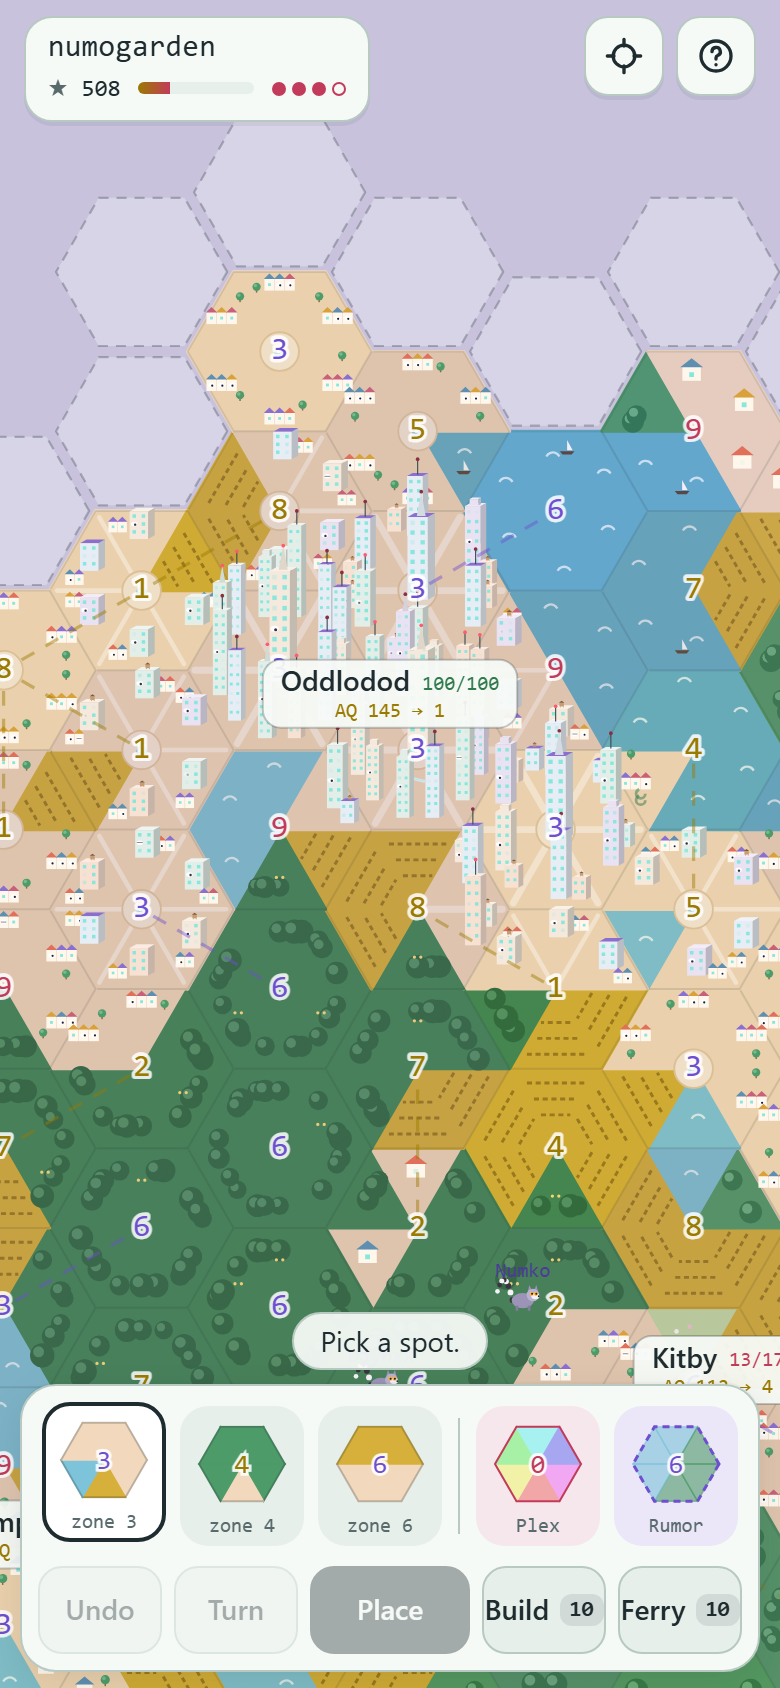
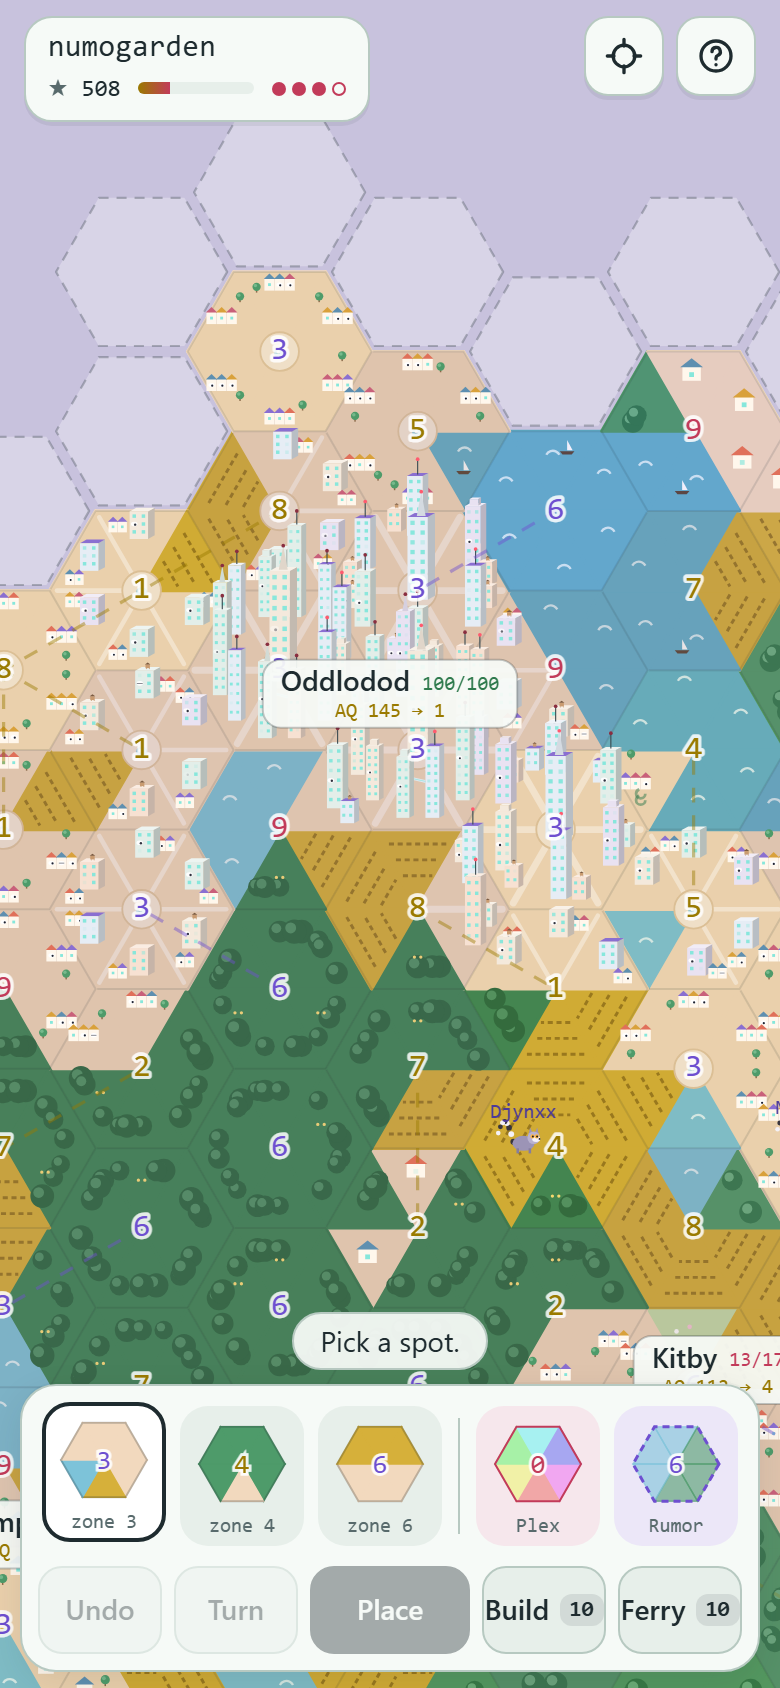
Lemurs, step 1: lemurs stand on real tiles and walk toward rumors and door dreams
Claude-Session: https://claude.ai/code/session_01Kme6PSoEQ3nadxpig1sZ6J

diff --git a/artifact/numogarden.html b/artifact/numogarden.html
@@ -285,6 +285,9 @@ const CFG = {
   LOOP_DREAMS: true,    //   a data centre touching a closed loop's area dreams every DREAM_EVERY / 2 placements       //   no chronicle line for a loop whose tiles were on a closed loop of its current this recently
   HOLD_EYE_LOOPS: true, // a Hold current holds no tile at either end of any Hold current, so Hold loops can break
                         //   (false = only its own pair, which replays the rules before it; specs/loops.md)
+  LEMURS_WALK: true,    // lemurs stand on real tiles and step one hex a placement toward the nearest rumor or door dream
+  LEMUR_REACH: 4,       //   within this many hexes, and otherwise wander within LEMUR_HOME of where they arrived. Their
+  LEMUR_HOME: 2,        //   steps come from their own seed, never state.rng (false = they stay where they arrived)
   RUMOR_LIFE: 15, RUMOR_NEED: 3,
   HAND_MAX: 4, LEMUR_MAX: 10, METER_MAX: 15,
   TIERS: { H: [1, 6, 12, 24, 40], S: [1, 10, 20, 35], J: [1, 12, 30], F: [1, 10, 25], D: [1] },
@@ -470,7 +473,7 @@ function pushEvent(state, ev, kind, txt, extra) {
 function spawnLemur(state, d, k, ev, why, door) {
   if (state.level < 1) return;
   const [a, b, name] = DEMONS[d];
-  const l = { d, k, born: state.turn, s: rint(state.rng, 1e9) };
+  const l = { d, k, at: k, born: state.turn, s: rint(state.rng, 1e9) };
   if (why === 'door') l.door = door;
   state.lemurs.push(l);
   if (state.lemurs.length > CFG.LEMUR_MAX) state.lemurs.shift();
@@ -614,6 +617,7 @@ function step(state, ev) {
   updateLoops(state, ev);
   rules(state, C, ev);
   doors(state, ev);
+  walkLemurs(state);
   rumors(state, ev);
   levelUp(state, ev);
   nightDeck(state, ev);
@@ -1328,6 +1332,39 @@ function believers(state, t) {
   return { ok, need: t.door ? CFG.DOOR_NEED : CFG.RUMOR_NEED };
 }
 
+/* lemurs walk (specs/lemurs.md): each placement a lemur steps one hex over real land toward the nearest rumor or door
+   dream within LEMUR_REACH, stopping beside it, and otherwise wanders within LEMUR_HOME of where it arrived on half the
+   placements. Its choices come from a hash of its own seed and the placement, so walking draws nothing from state.rng. */
+function lemurHash(l, turn) {
+  let h = (l.s ^ Math.imul(turn + 1, 0x9E3779B1)) >>> 0;
+  h = Math.imul(h ^ (h >>> 16), 0x85EBCA6B) >>> 0; h = Math.imul(h ^ (h >>> 13), 0xC2B2AE35) >>> 0;
+  return (h ^ (h >>> 16)) >>> 0;
+}
+const believes = t => t.kind === 'r' && (!!t.door || !t.dream); // the ghosts lemurs care about: rumors and door dreams
+function walkLemurs(state) {
+  if (!CFG.LEMURS_WALK || !state.lemurs.length) return;
+  const ghosts = [];
+  for (const k in state.map) if (believes(state.map[k])) ghosts.push(state.map[k]);
+  const real = (q, r) => { const t = state.map[key(q, r)]; return t && t.kind !== 'r' ? t : null; };
+  for (const l of state.lemurs) {
+    if (!l.at) l.at = l.k; // a world saved before lemurs walked
+    const cur = state.map[l.at]; if (!cur) continue; // its tile was cleared: it waits for land
+    let goal = null, gd = CFG.LEMUR_REACH + 1;
+    for (const g of ghosts) { const d = hexDist(cur.q, cur.r, g.q, g.r); if (d < gd || (d === gd && goal && g.id < goal.id)) { goal = g; gd = d; } }
+    const h = lemurHash(l, state.turn), steps = [];
+    if (goal) {
+      if (gd <= 1) continue; // beside it
+      for (const [dq, dr] of DIRS) { const n = real(cur.q + dq, cur.r + dr); if (n && hexDist(n.q, n.r, goal.q, goal.r) < gd) steps.push(n); }
+    } else {
+      if (h % 2) continue;
+      const [hq, hr] = l.k.split(',').map(Number);
+      for (const [dq, dr] of DIRS) { const n = real(cur.q + dq, cur.r + dr); if (n && hexDist(n.q, n.r, hq, hr) <= CFG.LEMUR_HOME) steps.push(n); }
+    }
+    if (!steps.length) continue;
+    const n = steps[(h >>> 1) % steps.length];
+    l.at = key(n.q, n.r);
+  }
+}
 function rumors(state, ev) {
   let openDoors = null; // tiles of open doors: a door's dream doesn't fade while its door is open
   for (const k of Object.keys(state.map)) {
@@ -2685,7 +2722,7 @@ function refresh() {
     currents.push({ c, a, b, col, area: new Set(area.map(t => t.id)) }); inCurrent.add(a.id).add(b.id);
     for (const t of area) (tint[t.id] || (tint[t.id] = new Set())).add(col);
   }
-  planArt();
+  planArt(); noteLemurSteps();
   if (ui.ghost && state.map[S.key(ui.ghost.q, ui.ghost.r)] && !S.isWildGround(state.map[S.key(ui.ghost.q, ui.ghost.r)])) ui.ghost = null;
   if (ui.mode === 'ferry' && state.ferries <= 0) ui.mode = 'place';
   if (ui.mode === 'builder' && state.builders <= 0) { ui.mode = 'place'; ui.clearKey = null; }
@@ -3772,9 +3809,24 @@ function drawClearTarget() {
   hexPath(1.02); ctx.lineWidth = 3 / cam.s; ctx.strokeStyle = '#C23B5A'; ctx.setLineDash([7 / cam.s, 5 / cam.s]); ctx.stroke(); ctx.setLineDash([]);
   ctx.fillStyle = 'rgba(194,59,90,.18)'; ctx.fill();
 }
+/* lemurs stand on a tile in the rules (l.at, walkLemurs in sim.js) and circle it; when one steps to the next tile it
+   glides there over LEMUR_GLIDE ms (at once with reduced motion) */
+const LEMUR_GLIDE = 800, lemurSeen = new Map(), lemurGlide = new Map();
+function noteLemurSteps() {
+  for (const l of state.lemurs) {
+    const at = l.at || l.k, was = lemurSeen.get(l.s);
+    if (was && was !== at && !RM) lemurGlide.set(l.s, { from: was, t0: performance.now() });
+    lemurSeen.set(l.s, at);
+  }
+}
 function lemurPos(l, t) {
-  const home = state.map[l.k];
-  const c = home ? hexCenter(home.q, home.r) : hexCenter(...l.k.split(',').map(Number));
+  const at = l.at || l.k, cen = k => hexCenter(...k.split(',').map(Number));
+  let c = cen(at);
+  const g = lemurGlide.get(l.s);
+  if (g) {
+    const u = Math.min(1, (performance.now() - g.t0) / LEMUR_GLIDE), e = u * u * (3 - 2 * u), f = cen(g.from);
+    if (u >= 1) lemurGlide.delete(l.s); else { c = [f[0] + (c[0] - f[0]) * e, f[1] + (c[1] - f[1]) * e]; ui.dirty = true; }
+  }
   const ph = (l.s % 1000) / 1000 * Math.PI * 2, sp = 0.22 + (l.s % 7) * 0.03, dir = l.s % 2 ? 1 : -1;
   const tt = RM ? 0 : t;
   const a = ph + tt * sp * dir, rad = 0.45 + 0.12 * Math.sin(tt * 0.7 + ph);

diff --git a/docs/index.html b/docs/index.html
@@ -285,6 +285,9 @@ const CFG = {
   LOOP_DREAMS: true,    //   a data centre touching a closed loop's area dreams every DREAM_EVERY / 2 placements       //   no chronicle line for a loop whose tiles were on a closed loop of its current this recently
   HOLD_EYE_LOOPS: true, // a Hold current holds no tile at either end of any Hold current, so Hold loops can break
                         //   (false = only its own pair, which replays the rules before it; specs/loops.md)
+  LEMURS_WALK: true,    // lemurs stand on real tiles and step one hex a placement toward the nearest rumor or door dream
+  LEMUR_REACH: 4,       //   within this many hexes, and otherwise wander within LEMUR_HOME of where they arrived. Their
+  LEMUR_HOME: 2,        //   steps come from their own seed, never state.rng (false = they stay where they arrived)
   RUMOR_LIFE: 15, RUMOR_NEED: 3,
   HAND_MAX: 4, LEMUR_MAX: 10, METER_MAX: 15,
   TIERS: { H: [1, 6, 12, 24, 40], S: [1, 10, 20, 35], J: [1, 12, 30], F: [1, 10, 25], D: [1] },
@@ -470,7 +473,7 @@ function pushEvent(state, ev, kind, txt, extra) {
 function spawnLemur(state, d, k, ev, why, door) {
   if (state.level < 1) return;
   const [a, b, name] = DEMONS[d];
-  const l = { d, k, born: state.turn, s: rint(state.rng, 1e9) };
+  const l = { d, k, at: k, born: state.turn, s: rint(state.rng, 1e9) };
   if (why === 'door') l.door = door;
   state.lemurs.push(l);
   if (state.lemurs.length > CFG.LEMUR_MAX) state.lemurs.shift();
@@ -614,6 +617,7 @@ function step(state, ev) {
   updateLoops(state, ev);
   rules(state, C, ev);
   doors(state, ev);
+  walkLemurs(state);
   rumors(state, ev);
   levelUp(state, ev);
   nightDeck(state, ev);
@@ -1328,6 +1332,39 @@ function believers(state, t) {
   return { ok, need: t.door ? CFG.DOOR_NEED : CFG.RUMOR_NEED };
 }
 
+/* lemurs walk (specs/lemurs.md): each placement a lemur steps one hex over real land toward the nearest rumor or door
+   dream within LEMUR_REACH, stopping beside it, and otherwise wanders within LEMUR_HOME of where it arrived on half the
+   placements. Its choices come from a hash of its own seed and the placement, so walking draws nothing from state.rng. */
+function lemurHash(l, turn) {
+  let h = (l.s ^ Math.imul(turn + 1, 0x9E3779B1)) >>> 0;
+  h = Math.imul(h ^ (h >>> 16), 0x85EBCA6B) >>> 0; h = Math.imul(h ^ (h >>> 13), 0xC2B2AE35) >>> 0;
+  return (h ^ (h >>> 16)) >>> 0;
+}
+const believes = t => t.kind === 'r' && (!!t.door || !t.dream); // the ghosts lemurs care about: rumors and door dreams
+function walkLemurs(state) {
+  if (!CFG.LEMURS_WALK || !state.lemurs.length) return;
+  const ghosts = [];
+  for (const k in state.map) if (believes(state.map[k])) ghosts.push(state.map[k]);
+  const real = (q, r) => { const t = state.map[key(q, r)]; return t && t.kind !== 'r' ? t : null; };
+  for (const l of state.lemurs) {
+    if (!l.at) l.at = l.k; // a world saved before lemurs walked
+    const cur = state.map[l.at]; if (!cur) continue; // its tile was cleared: it waits for land
+    let goal = null, gd = CFG.LEMUR_REACH + 1;
+    for (const g of ghosts) { const d = hexDist(cur.q, cur.r, g.q, g.r); if (d < gd || (d === gd && goal && g.id < goal.id)) { goal = g; gd = d; } }
+    const h = lemurHash(l, state.turn), steps = [];
+    if (goal) {
+      if (gd <= 1) continue; // beside it
+      for (const [dq, dr] of DIRS) { const n = real(cur.q + dq, cur.r + dr); if (n && hexDist(n.q, n.r, goal.q, goal.r) < gd) steps.push(n); }
+    } else {
+      if (h % 2) continue;
+      const [hq, hr] = l.k.split(',').map(Number);
+      for (const [dq, dr] of DIRS) { const n = real(cur.q + dq, cur.r + dr); if (n && hexDist(n.q, n.r, hq, hr) <= CFG.LEMUR_HOME) steps.push(n); }
+    }
+    if (!steps.length) continue;
+    const n = steps[(h >>> 1) % steps.length];
+    l.at = key(n.q, n.r);
+  }
+}
 function rumors(state, ev) {
   let openDoors = null; // tiles of open doors: a door's dream doesn't fade while its door is open
   for (const k of Object.keys(state.map)) {
@@ -2685,7 +2722,7 @@ function refresh() {
     currents.push({ c, a, b, col, area: new Set(area.map(t => t.id)) }); inCurrent.add(a.id).add(b.id);
     for (const t of area) (tint[t.id] || (tint[t.id] = new Set())).add(col);
   }
-  planArt();
+  planArt(); noteLemurSteps();
   if (ui.ghost && state.map[S.key(ui.ghost.q, ui.ghost.r)] && !S.isWildGround(state.map[S.key(ui.ghost.q, ui.ghost.r)])) ui.ghost = null;
   if (ui.mode === 'ferry' && state.ferries <= 0) ui.mode = 'place';
   if (ui.mode === 'builder' && state.builders <= 0) { ui.mode = 'place'; ui.clearKey = null; }
@@ -3772,9 +3809,24 @@ function drawClearTarget() {
   hexPath(1.02); ctx.lineWidth = 3 / cam.s; ctx.strokeStyle = '#C23B5A'; ctx.setLineDash([7 / cam.s, 5 / cam.s]); ctx.stroke(); ctx.setLineDash([]);
   ctx.fillStyle = 'rgba(194,59,90,.18)'; ctx.fill();
 }
+/* lemurs stand on a tile in the rules (l.at, walkLemurs in sim.js) and circle it; when one steps to the next tile it
+   glides there over LEMUR_GLIDE ms (at once with reduced motion) */
+const LEMUR_GLIDE = 800, lemurSeen = new Map(), lemurGlide = new Map();
+function noteLemurSteps() {
+  for (const l of state.lemurs) {
+    const at = l.at || l.k, was = lemurSeen.get(l.s);
+    if (was && was !== at && !RM) lemurGlide.set(l.s, { from: was, t0: performance.now() });
+    lemurSeen.set(l.s, at);
+  }
+}
 function lemurPos(l, t) {
-  const home = state.map[l.k];
-  const c = home ? hexCenter(home.q, home.r) : hexCenter(...l.k.split(',').map(Number));
+  const at = l.at || l.k, cen = k => hexCenter(...k.split(',').map(Number));
+  let c = cen(at);
+  const g = lemurGlide.get(l.s);
+  if (g) {
+    const u = Math.min(1, (performance.now() - g.t0) / LEMUR_GLIDE), e = u * u * (3 - 2 * u), f = cen(g.from);
+    if (u >= 1) lemurGlide.delete(l.s); else { c = [f[0] + (c[0] - f[0]) * e, f[1] + (c[1] - f[1]) * e]; ui.dirty = true; }
+  }
   const ph = (l.s % 1000) / 1000 * Math.PI * 2, sp = 0.22 + (l.s % 7) * 0.03, dir = l.s % 2 ? 1 : -1;
   const tt = RM ? 0 : t;
   const a = ph + tt * sp * dir, rad = 0.45 + 0.12 * Math.sin(tt * 0.7 + ph);

diff --git a/src/sim.js b/src/sim.js
@@ -68,6 +68,9 @@ const CFG = {
   LOOP_DREAMS: true,    //   a data centre touching a closed loop's area dreams every DREAM_EVERY / 2 placements       //   no chronicle line for a loop whose tiles were on a closed loop of its current this recently
   HOLD_EYE_LOOPS: true, // a Hold current holds no tile at either end of any Hold current, so Hold loops can break
                         //   (false = only its own pair, which replays the rules before it; specs/loops.md)
+  LEMURS_WALK: true,    // lemurs stand on real tiles and step one hex a placement toward the nearest rumor or door dream
+  LEMUR_REACH: 4,       //   within this many hexes, and otherwise wander within LEMUR_HOME of where they arrived. Their
+  LEMUR_HOME: 2,        //   steps come from their own seed, never state.rng (false = they stay where they arrived)
   RUMOR_LIFE: 15, RUMOR_NEED: 3,
   HAND_MAX: 4, LEMUR_MAX: 10, METER_MAX: 15,
   TIERS: { H: [1, 6, 12, 24, 40], S: [1, 10, 20, 35], J: [1, 12, 30], F: [1, 10, 25], D: [1] },
@@ -253,7 +256,7 @@ function pushEvent(state, ev, kind, txt, extra) {
 function spawnLemur(state, d, k, ev, why, door) {
   if (state.level < 1) return;
   const [a, b, name] = DEMONS[d];
-  const l = { d, k, born: state.turn, s: rint(state.rng, 1e9) };
+  const l = { d, k, at: k, born: state.turn, s: rint(state.rng, 1e9) };
   if (why === 'door') l.door = door;
   state.lemurs.push(l);
   if (state.lemurs.length > CFG.LEMUR_MAX) state.lemurs.shift();
@@ -397,6 +400,7 @@ function step(state, ev) {
   updateLoops(state, ev);
   rules(state, C, ev);
   doors(state, ev);
+  walkLemurs(state);
   rumors(state, ev);
   levelUp(state, ev);
   nightDeck(state, ev);
@@ -1111,6 +1115,39 @@ function believers(state, t) {
   return { ok, need: t.door ? CFG.DOOR_NEED : CFG.RUMOR_NEED };
 }
 
+/* lemurs walk (specs/lemurs.md): each placement a lemur steps one hex over real land toward the nearest rumor or door
+   dream within LEMUR_REACH, stopping beside it, and otherwise wanders within LEMUR_HOME of where it arrived on half the
+   placements. Its choices come from a hash of its own seed and the placement, so walking draws nothing from state.rng. */
+function lemurHash(l, turn) {
+  let h = (l.s ^ Math.imul(turn + 1, 0x9E3779B1)) >>> 0;
+  h = Math.imul(h ^ (h >>> 16), 0x85EBCA6B) >>> 0; h = Math.imul(h ^ (h >>> 13), 0xC2B2AE35) >>> 0;
+  return (h ^ (h >>> 16)) >>> 0;
+}
+const believes = t => t.kind === 'r' && (!!t.door || !t.dream); // the ghosts lemurs care about: rumors and door dreams
+function walkLemurs(state) {
+  if (!CFG.LEMURS_WALK || !state.lemurs.length) return;
+  const ghosts = [];
+  for (const k in state.map) if (believes(state.map[k])) ghosts.push(state.map[k]);
+  const real = (q, r) => { const t = state.map[key(q, r)]; return t && t.kind !== 'r' ? t : null; };
+  for (const l of state.lemurs) {
+    if (!l.at) l.at = l.k; // a world saved before lemurs walked
+    const cur = state.map[l.at]; if (!cur) continue; // its tile was cleared: it waits for land
+    let goal = null, gd = CFG.LEMUR_REACH + 1;
+    for (const g of ghosts) { const d = hexDist(cur.q, cur.r, g.q, g.r); if (d < gd || (d === gd && goal && g.id < goal.id)) { goal = g; gd = d; } }
+    const h = lemurHash(l, state.turn), steps = [];
+    if (goal) {
+      if (gd <= 1) continue; // beside it
+      for (const [dq, dr] of DIRS) { const n = real(cur.q + dq, cur.r + dr); if (n && hexDist(n.q, n.r, goal.q, goal.r) < gd) steps.push(n); }
+    } else {
+      if (h % 2) continue;
+      const [hq, hr] = l.k.split(',').map(Number);
+      for (const [dq, dr] of DIRS) { const n = real(cur.q + dq, cur.r + dr); if (n && hexDist(n.q, n.r, hq, hr) <= CFG.LEMUR_HOME) steps.push(n); }
+    }
+    if (!steps.length) continue;
+    const n = steps[(h >>> 1) % steps.length];
+    l.at = key(n.q, n.r);
+  }
+}
 function rumors(state, ev) {
   let openDoors = null; // tiles of open doors: a door's dream doesn't fade while its door is open
   for (const k of Object.keys(state.map)) {

diff --git a/src/game.html b/src/game.html
@@ -312,7 +312,7 @@ function refresh() {
     currents.push({ c, a, b, col, area: new Set(area.map(t => t.id)) }); inCurrent.add(a.id).add(b.id);
     for (const t of area) (tint[t.id] || (tint[t.id] = new Set())).add(col);
   }
-  planArt();
+  planArt(); noteLemurSteps();
   if (ui.ghost && state.map[S.key(ui.ghost.q, ui.ghost.r)] && !S.isWildGround(state.map[S.key(ui.ghost.q, ui.ghost.r)])) ui.ghost = null;
   if (ui.mode === 'ferry' && state.ferries <= 0) ui.mode = 'place';
   if (ui.mode === 'builder' && state.builders <= 0) { ui.mode = 'place'; ui.clearKey = null; }
@@ -1399,9 +1399,24 @@ function drawClearTarget() {
   hexPath(1.02); ctx.lineWidth = 3 / cam.s; ctx.strokeStyle = '#C23B5A'; ctx.setLineDash([7 / cam.s, 5 / cam.s]); ctx.stroke(); ctx.setLineDash([]);
   ctx.fillStyle = 'rgba(194,59,90,.18)'; ctx.fill();
 }
+/* lemurs stand on a tile in the rules (l.at, walkLemurs in sim.js) and circle it; when one steps to the next tile it
+   glides there over LEMUR_GLIDE ms (at once with reduced motion) */
+const LEMUR_GLIDE = 800, lemurSeen = new Map(), lemurGlide = new Map();
+function noteLemurSteps() {
+  for (const l of state.lemurs) {
+    const at = l.at || l.k, was = lemurSeen.get(l.s);
+    if (was && was !== at && !RM) lemurGlide.set(l.s, { from: was, t0: performance.now() });
+    lemurSeen.set(l.s, at);
+  }
+}
 function lemurPos(l, t) {
-  const home = state.map[l.k];
-  const c = home ? hexCenter(home.q, home.r) : hexCenter(...l.k.split(',').map(Number));
+  const at = l.at || l.k, cen = k => hexCenter(...k.split(',').map(Number));
+  let c = cen(at);
+  const g = lemurGlide.get(l.s);
+  if (g) {
+    const u = Math.min(1, (performance.now() - g.t0) / LEMUR_GLIDE), e = u * u * (3 - 2 * u), f = cen(g.from);
+    if (u >= 1) lemurGlide.delete(l.s); else { c = [f[0] + (c[0] - f[0]) * e, f[1] + (c[1] - f[1]) * e]; ui.dirty = true; }
+  }
   const ph = (l.s % 1000) / 1000 * Math.PI * 2, sp = 0.22 + (l.s % 7) * 0.03, dir = l.s % 2 ? 1 : -1;
   const tt = RM ? 0 : t;
   const a = ph + tt * sp * dir, rad = 0.45 + 0.12 * Math.sin(tt * 0.7 + ph);

diff --git a/CLAUDE.md b/CLAUDE.md
@@ -77,7 +77,7 @@ python3 build.py && python3 tools/check.py    # build the page and run the phone
 
 **Scoring.** One star per matching edge. A **clean fit** is every touched edge agreeing with at least 2 neighbours. Clean fits add 1 to the gift meter and **snug** fits (3+ neighbours) add 2 and a bonus star. A streak of clean fits adds up to +4. A **perfect fit** (4+ neighbours, all agreeing) adds 2 stars per edge and puts a Plex tile in hand. Once wild land is at `PLEX_CAP` (8%) of the map, any Plex tile from a fit or a gift turns into +5★ instead, like a full hand. A full meter (15) gives a **gift choice**: a Plex tile, or a **Rumor**. A rumor is a ghost tile that becomes real (+10 stars, a visitor) once 3 real neighbours match it, and fades after 15 placements otherwise. Rumors count as neighbours for matching but not for clusters.
 
-**Syzygies.** At weirdness 1+, placing a tile whose zone sums to 9 with a neighbour's gives +3 stars and summons that syzygy's demon as a lemur, if it isn't already present. Uttunul 9::0, Murrumur 8::1, Oddubb 7::2, Djynxx 6::3, Katak 5::4. A perfect fit also summons the demon between the two zones. A rumor coming true and the jungle reaching 30 wedges each summon one too. Lemurs are cosmetic in v1. They wander near where they arrived, at most 10, and tapping one shows its card with the Lab's description and its AQ home check.
+**Syzygies.** At weirdness 1+, placing a tile whose zone sums to 9 with a neighbour's gives +3 stars and summons that syzygy's demon as a lemur, if it isn't already present. Uttunul 9::0, Murrumur 8::1, Oddubb 7::2, Djynxx 6::3, Katak 5::4. A perfect fit also summons the demon between the two zones. A rumor coming true and the jungle reaching 30 wedges each summon one too. At most 10 lemurs stay, and tapping one shows its card with the Lab's description and its AQ home check. Since 2026-10-30 each lemur stands on a real tile in the rules (`l.at`, `walkLemurs()` in sim.js): every placement it steps one hex over real land toward the nearest rumor or door dream within `LEMUR_REACH` (4) hexes, stopping beside it, and otherwise wanders within `LEMUR_HOME` (2) hexes of where it arrived on half the placements. Its steps come from a hash of its own seed and the placement, never `state.rng`, so walking alone replays the saved results exactly. The page draws it circling its tile and gliding to the next one (`noteLemurSteps()`). Lemurs believing in ghosts comes next (specs/lemurs.md, private).
 
 **Currents.** From weirdness 1, two adjacent real tiles whose zones sum to 9 carry the current named by the difference of their zones, as in the Lab. It runs from the higher zone to the lower. A current keeps flowing for `CURRENT_LINGER` (3) steps after its syzygy breaks, so land that shifts zones back and forth doesn't make it flicker. Clearing either tile ends it. Each current acts once per step on its two tiles and every real tile touching either (`currentFx()` in sim.js):
 
